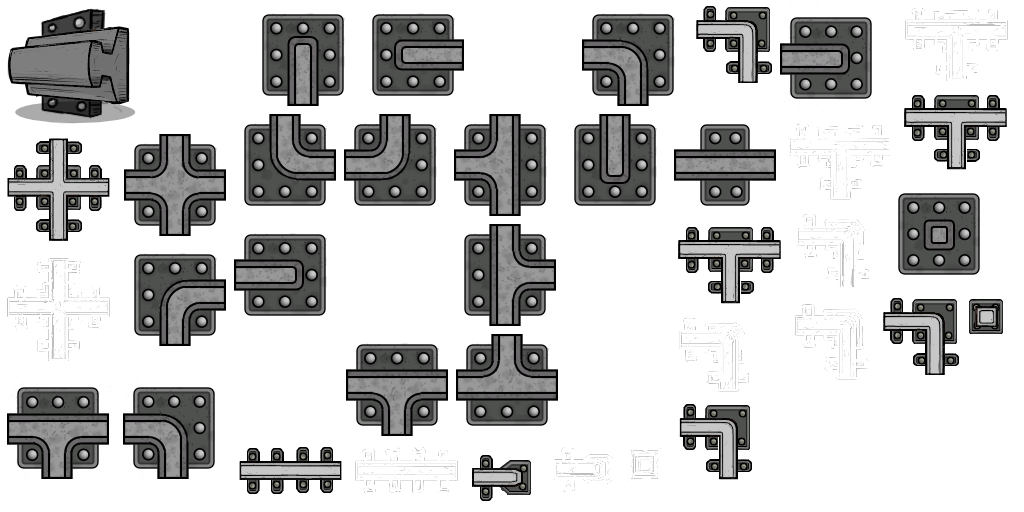
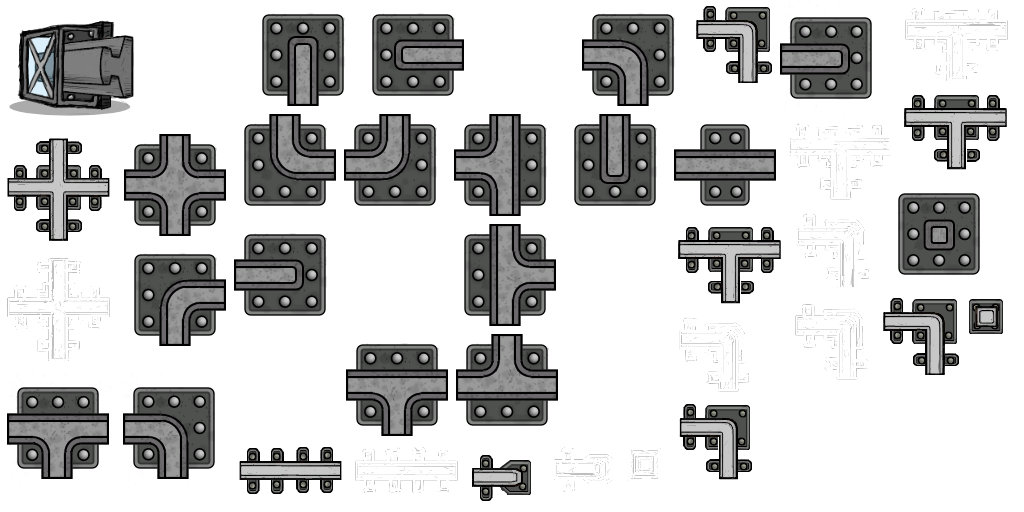
HPA: fix hd rail up placement sprite

Changed region(s): [[0.0, 0.0, 0.1562, 0.25]]

diff --git a/RonivansLegacy_ChemicalProcessing/Patches/HPA/OverlayModes_Patches.cs b/RonivansLegacy_ChemicalProcessing/Patches/HPA/OverlayModes_Patches.cs
@@ -26,7 +26,7 @@ namespace RonivansLegacy_ChemicalProcessing.Patches.HPA
 
 			public static IEnumerable<CodeInstruction> Transpiler(ILGenerator _, IEnumerable<CodeInstruction> orig)
 			{
-				var Colorset_GetColorByName = AccessTools.Method(typeof(ColorSet), nameof(ColorSet.GetColorByName));
+				//var Colorset_GetColorByName = AccessTools.Method(typeof(ColorSet), nameof(ColorSet.GetColorByName));
 				var ReplaceConduitColor = AccessTools.Method(typeof(OverlayModes_ConduitMode_Update_Patch), nameof(ReplaceHPConduitColor));
 
 				var GetColorByName = AccessTools.Method(typeof(ColorSet), nameof(ColorSet.GetColorByName));
@@ -35,7 +35,7 @@ namespace RonivansLegacy_ChemicalProcessing.Patches.HPA
 				var codes = orig.ToList();
 
 				// SaveLoadRoot layerTarget;
-				int layerTargetIdx = 12;
+				int layerTargetIdx = 13;
 				var lastCall = codes.FindLast(ci => ci.operand?.ToString().Contains("get_Current") == true);
 				if (lastCall != null)
 				{
